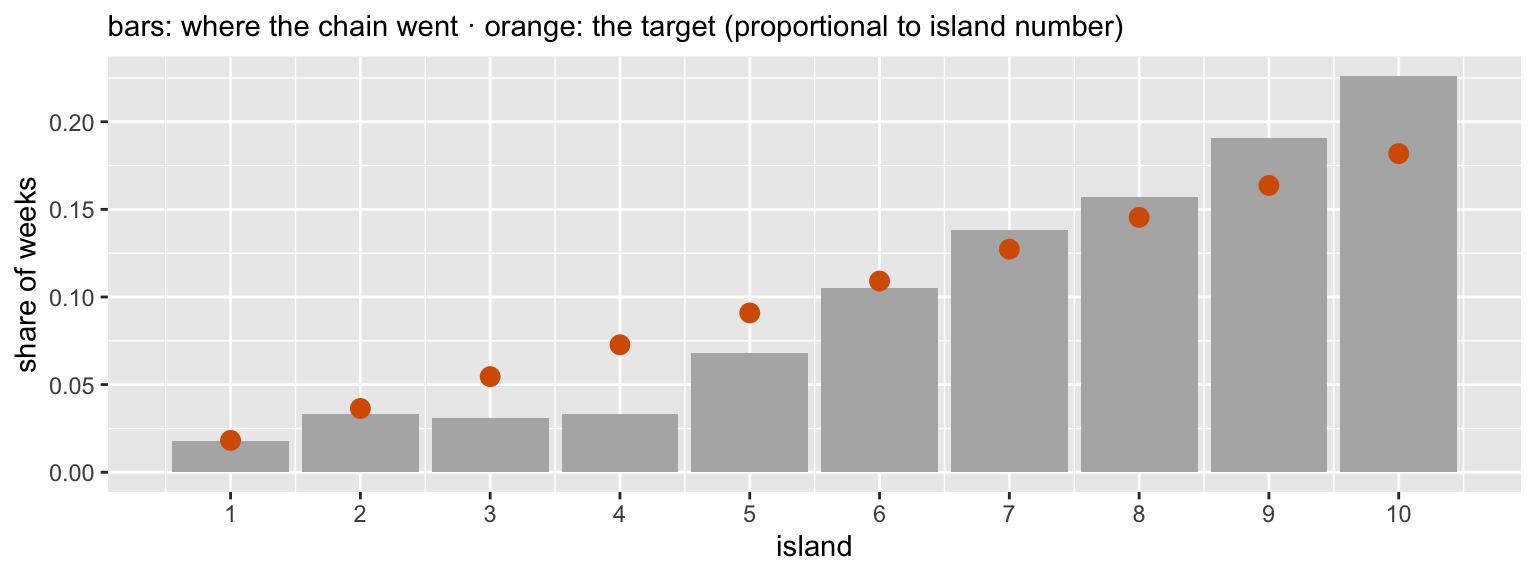
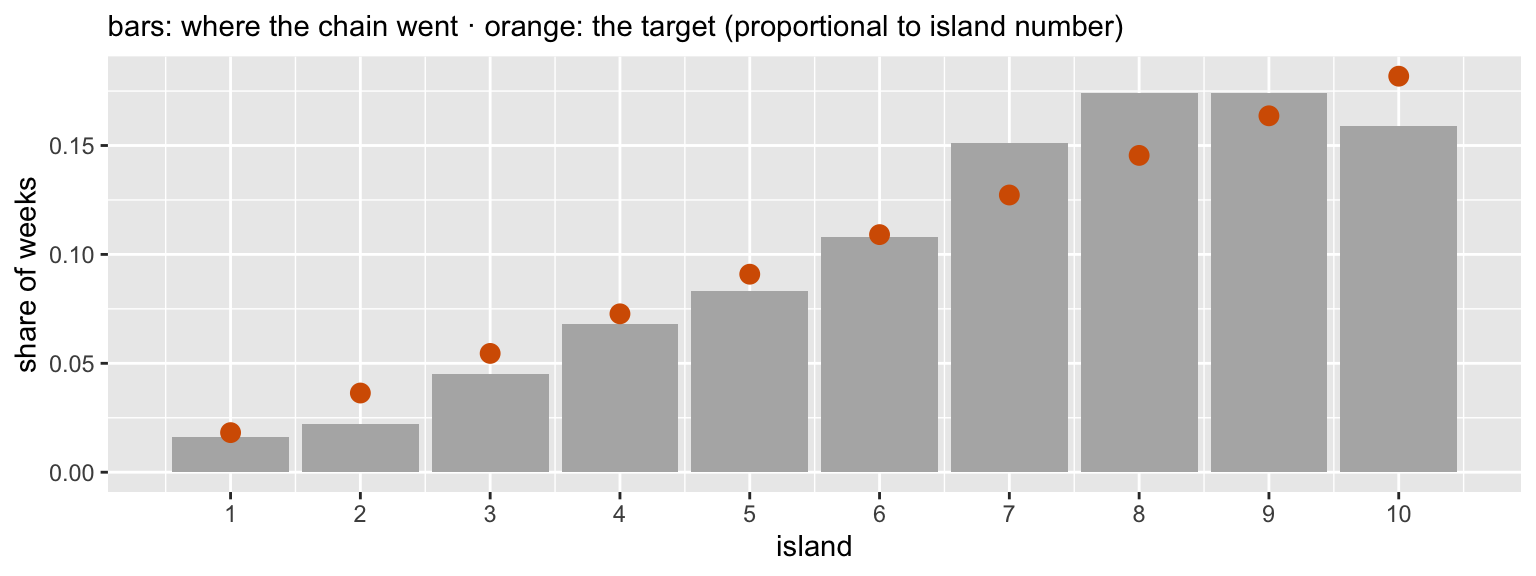
Lecture 5: frame conjugate priors and dropping the evidence as two escapes from the same integral; show the evidence cancelling in a ratio

diff --git a/_site/mcmc-5.html b/_site/mcmc-5.html
@@ -221,20 +221,24 @@
 <li><p>We assume a prior distribution and we can compute a likelihood based on what we know about the distribution we assumed for the DGP (most of the time). The tricky part is the evidence. This makes computation analytically intractable.</p></li>
 </ul>
 <p><span class="math display">\[ p(x) = \int_\theta p(x|\theta)p(\theta)d(\theta) \]</span></p>
+<p>Two ways around this integral: make it easy (conjugate priors), or avoid it entirely (MCMC).</p>
 </section>
-<section id="conjugate-priors" class="slide level2 smaller">
-<h2>Conjugate priors</h2>
+<section id="escape-1-conjugate-priors" class="slide level2 smaller">
+<h2>Escape 1: conjugate priors</h2>
 <ul>
 <li><p>With many parameters it is basically impossible to compute analytically. “Bayesian analysis is hard because integrals are hard”. Maximization (derivatives) is easier than integrals, which is why frequentist is so popular.</p></li>
 <li><p>Conjugate priors are a less computational heavy approach to solving the integral problem. If posterior is from the same family as prior then it is easier to compute the evidence. E.g., a normal likelihood (with known σ) and a normal prior on the mean give a normal posterior; a binomial likelihood and a beta prior give a beta posterior (what we did on the grid in week 1); for a variance, the conjugate prior is an inverse-gamma. As a result the posterior, p( <span class="math inline">\(\theta\)</span> | data), becomes analytically tractable.</p></li>
+<li><p>The catch: only a handful of simple prior–likelihood pairs are conjugate. Logistic regression, multilevel models, and most of what we’ll fit this semester have none, so we need another way.</p></li>
 </ul>
 </section>
-<section id="why-we-can-ignore-the-evidence" class="slide level2">
-<h2>Why we can ignore the evidence</h2>
+<section id="escape-2-we-dont-need-the-evidence" class="slide level2 smaller">
+<h2>Escape 2: we don’t need the evidence</h2>
 <p><span class="math display">\[p(\theta | data) = \frac{p(data | \theta) \times p(\theta )}{p(data)}\]</span></p>
-<p>The evidence is a constant with respect to <span class="math inline">\(\theta\)</span> so the equation is often presented as:</p>
-<p><span class="math display">\[ p(\theta | data) \propto p(data | \theta) \times p(\theta ) \]</span> “The posterior is proportional to the likelihood X the prior.”</p>
-<p>As long as we can calculate the right side of the equation we can then sample from the posterior distribution</p>
+<p>The evidence doesn’t depend on <span class="math inline">\(\theta\)</span>: it’s the same number for every possible value. So</p>
+<p><span class="math display">\[ p(\theta | data) \propto p(data | \theta) \times p(\theta ) \]</span> “The posterior is proportional to the likelihood × the prior.”</p>
+<p>And when we <strong>compare</strong> two values of <span class="math inline">\(\theta\)</span>, the evidence cancels:</p>
+<p><span class="math display">\[\frac{p(\theta_1 | data)}{p(\theta_2 | data)} = \frac{p(data | \theta_1)\, p(\theta_1)}{p(data | \theta_2)\, p(\theta_2)}\]</span></p>
+<p>That’s all MCMC needs. It never computes the posterior’s height; it only asks “is this value more or less plausible than where I am now?” (the Metropolis acceptance ratio, coming up).</p>
 </section>
 <section id="markov-chain-monte-carlo" class="slide level2 smaller">
 <h2>Markov Chain Monte Carlo</h2>
